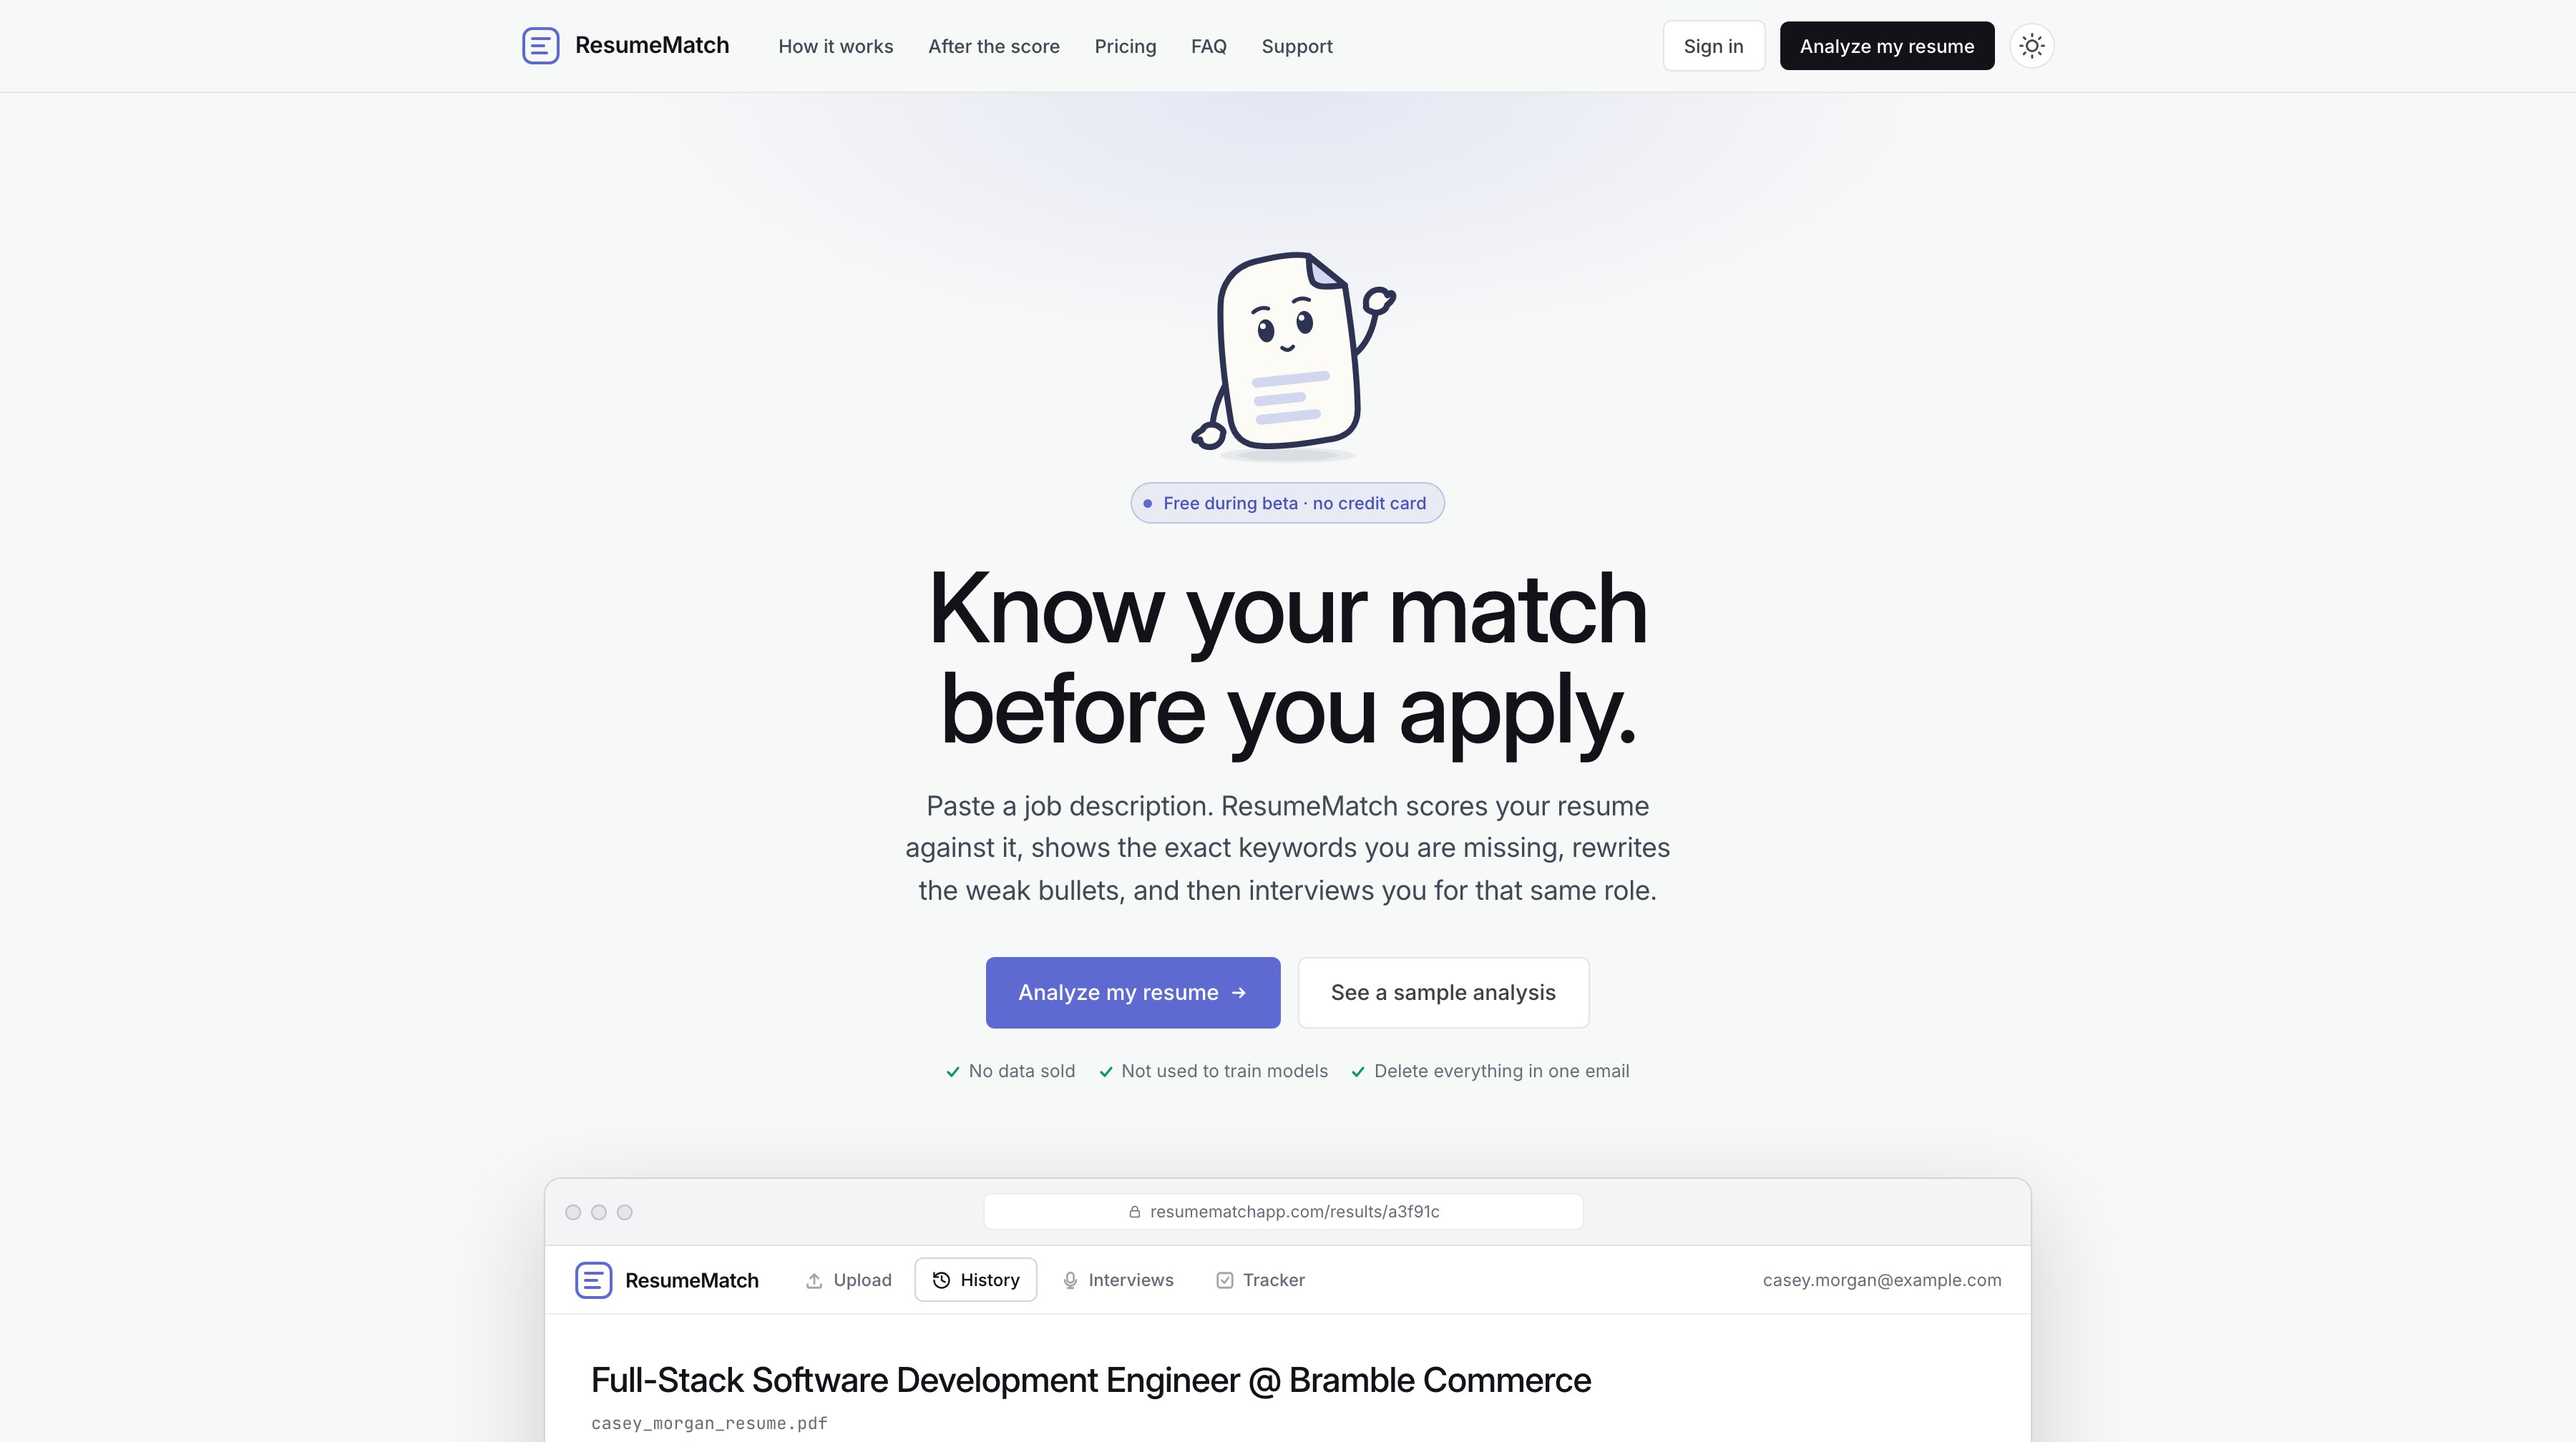
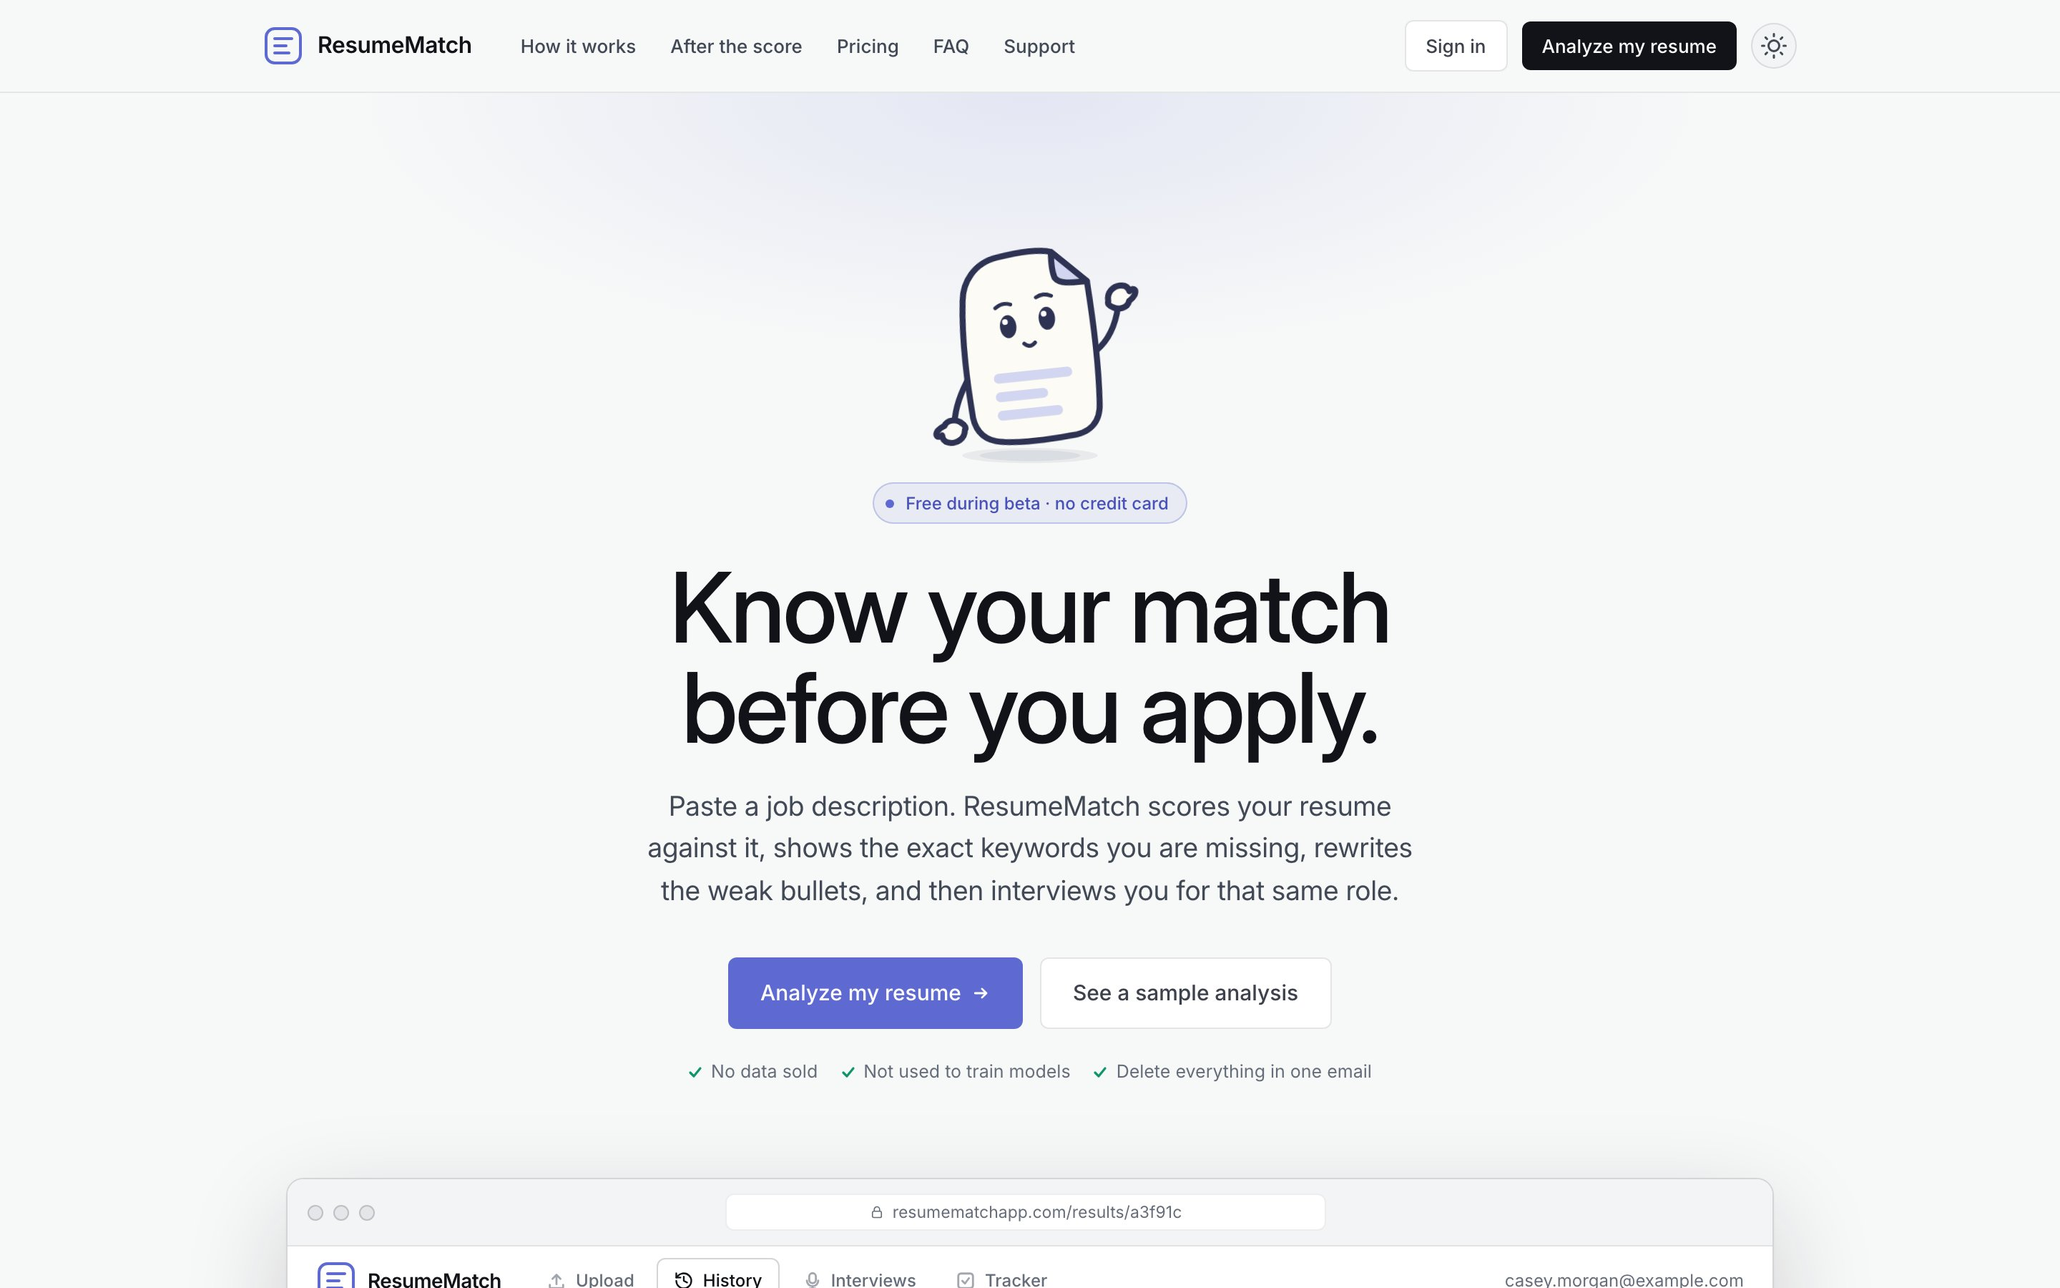
README: refresh landing, analysis and tracker screenshots; add mock interview results

diff --git a/README.md b/README.md
@@ -14,6 +14,10 @@ ResumeMatch is a production-grade, fully serverless AI resume analyzer deployed 
 
 ![Results Page](screenshots/landing_analysis_result.jpg)
 
+### Mock Interview
+
+![Interview Results](screenshots/readme_interview_results.jpg)
+
 ### Outreach Tracker
 
 ![Tracker](screenshots/readme_tracker.jpg)
